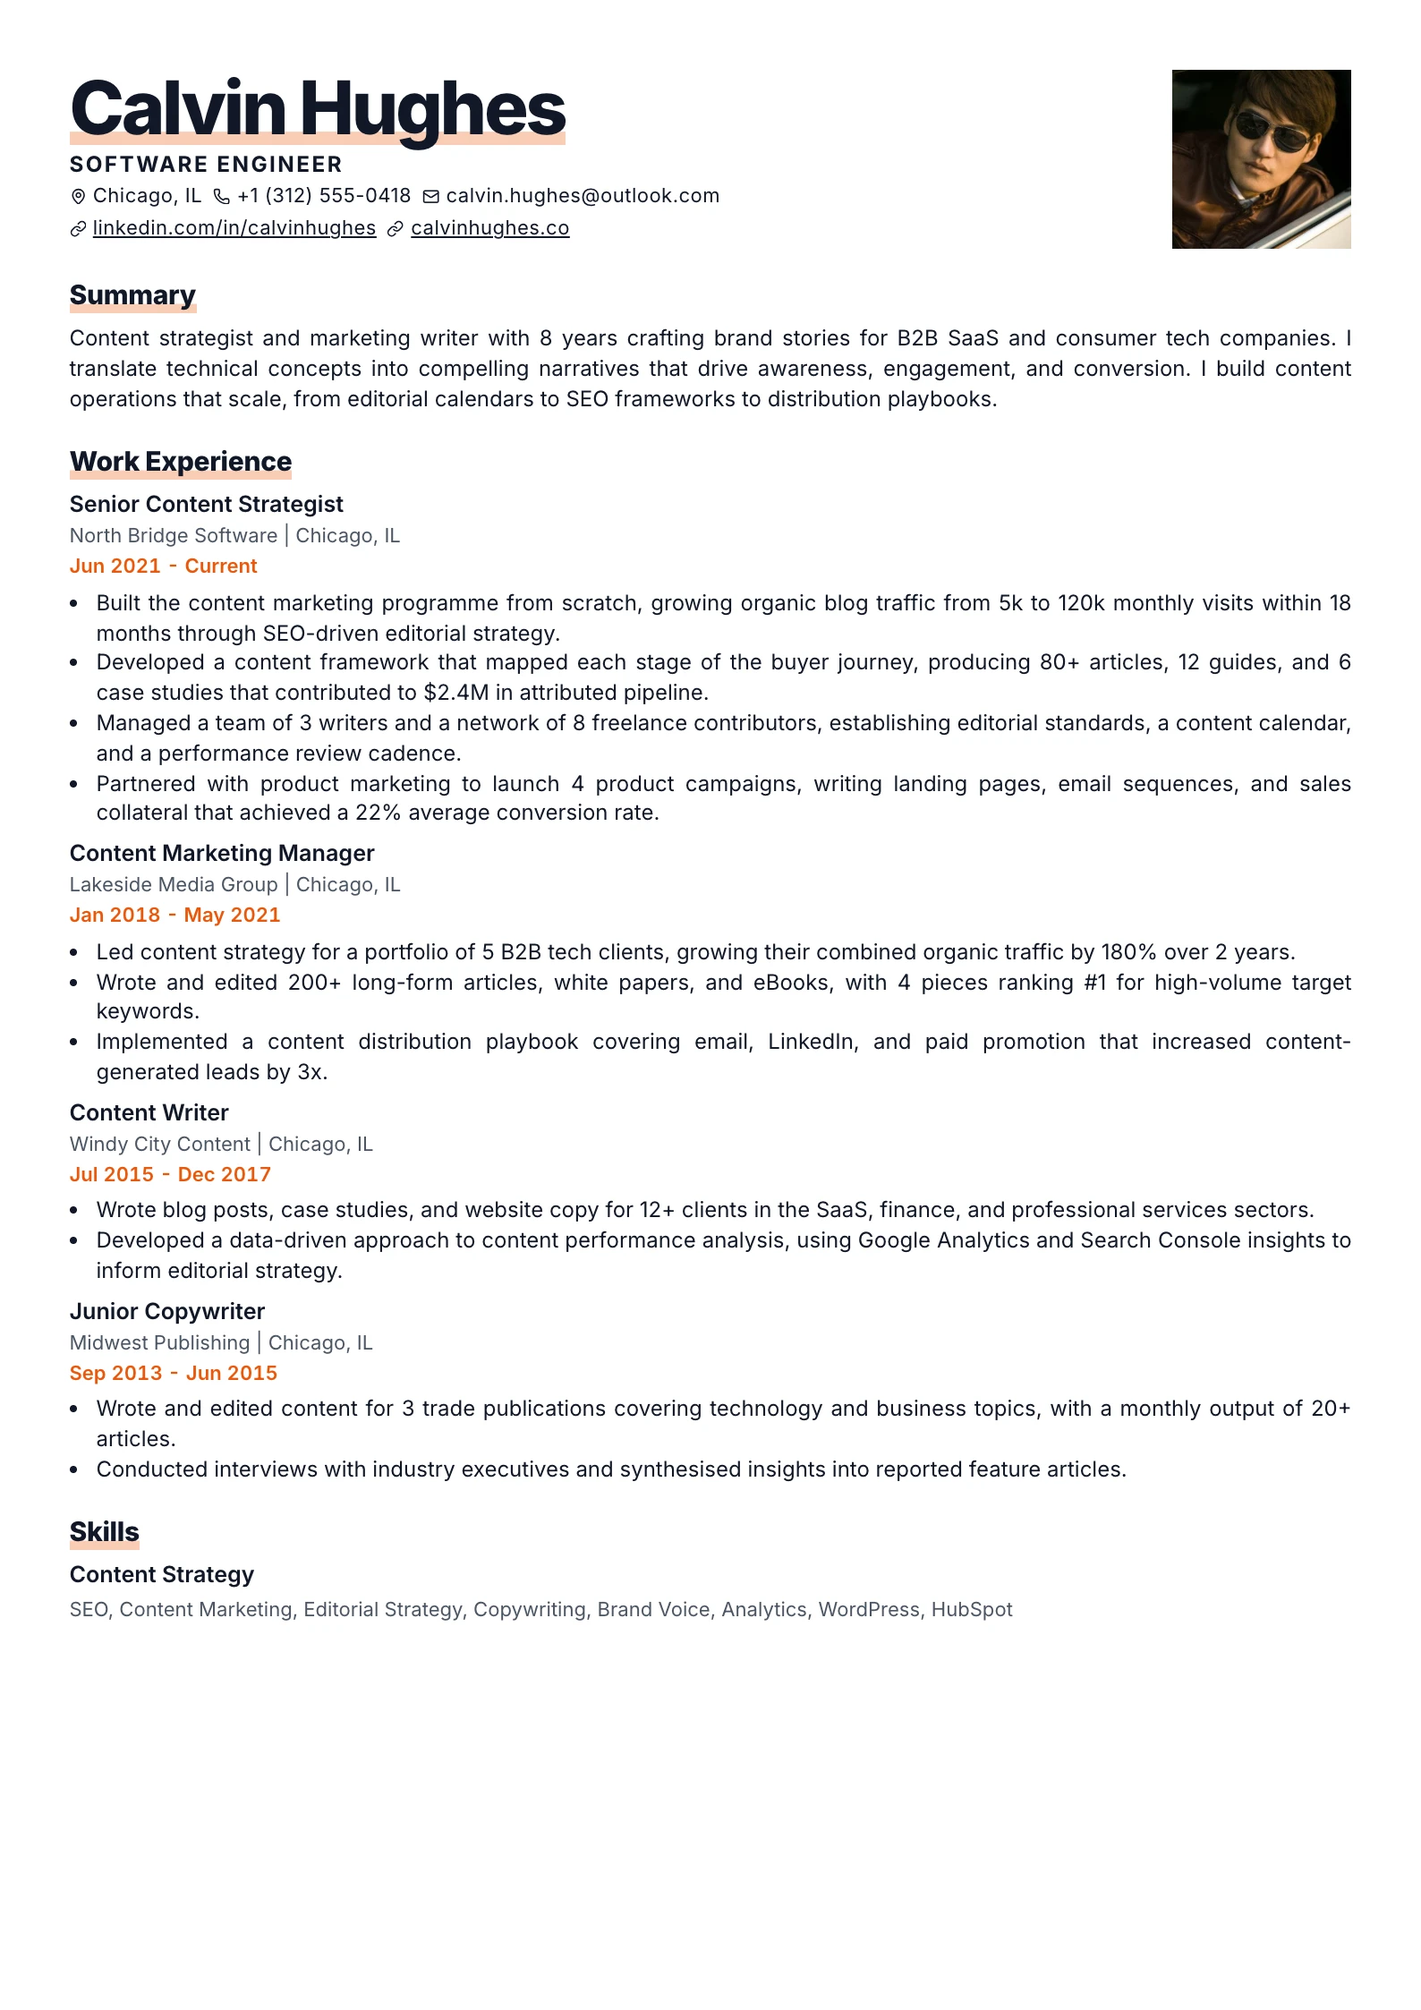
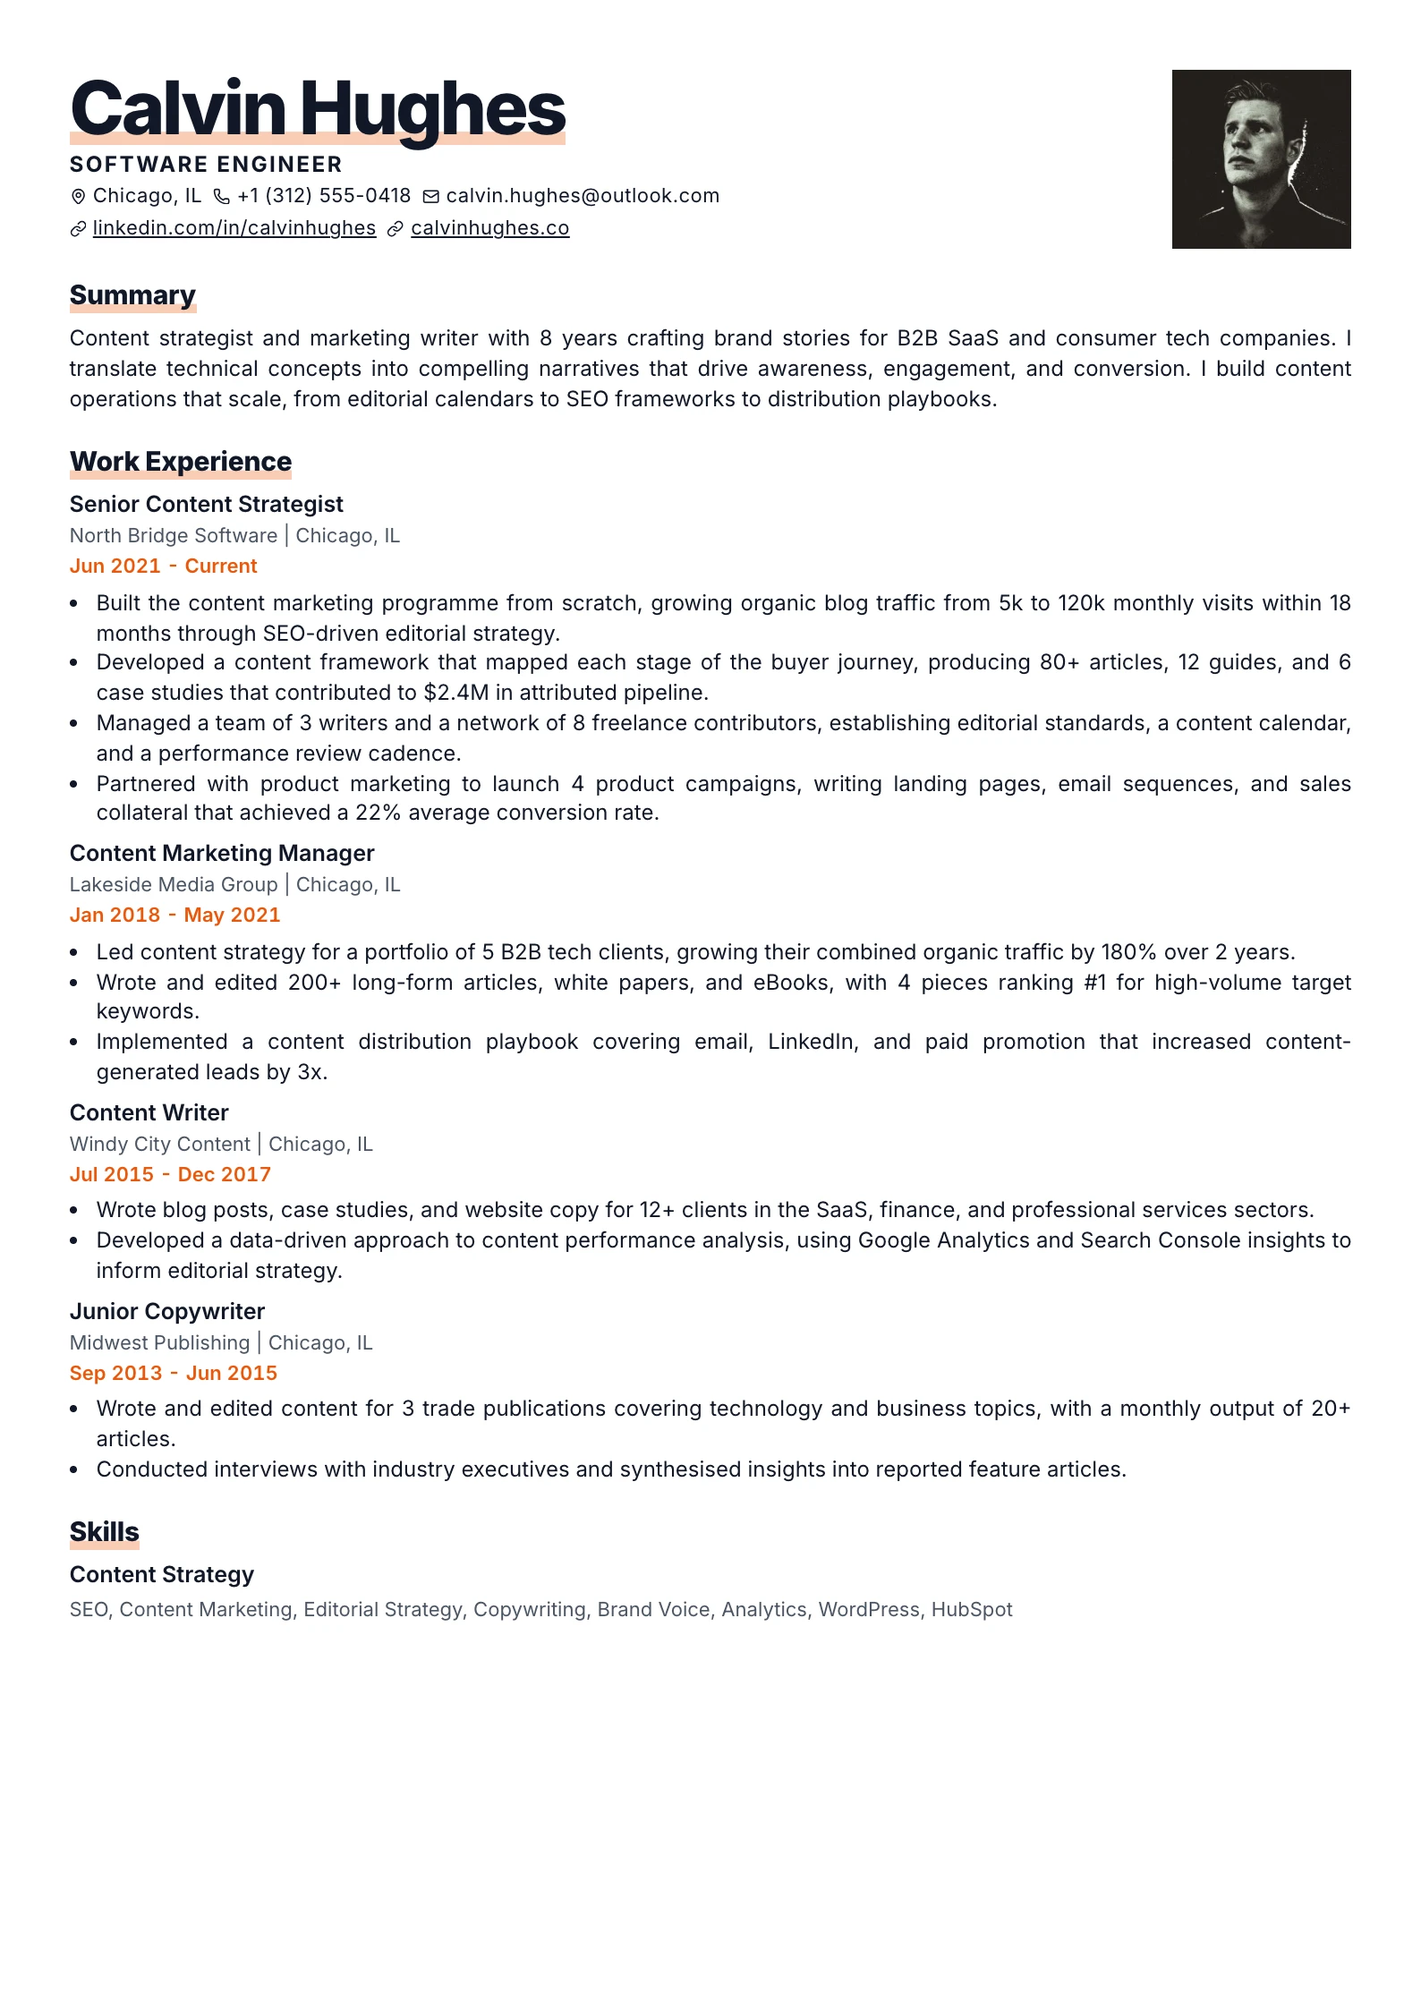
Make all sample personas male and refresh the README
- personas.ts: convert the remaining female personas to male (Anneke→Anton,
  Priya→Arjun, Sofia→Matteo, Riley→Emeka, Nina→Luka, Clara→Kojo,
  Ingrid→Ingmar) and rename the Singapore designer to Daniel Ong with a
  matching avatar, email and links
- Regenerate the affected template preview images (pnpm screenshots)
- README: list the 17 current layouts and rebuild the template gallery,
  correct the PDF session mechanism (sessionStorage, not query params), and
  bring the tech stack and project structure up to date

Changed region(s): [[0.8331, 0.0312, 0.9565, 0.1247]]

diff --git a/scripts/personas.ts b/scripts/personas.ts
@@ -1480,7 +1480,7 @@ export const PERSONAS: Persona[] = [
   {
     layoutId: "bold-type",
     presetId: "bold-citrus",
-    photo: "https://i.pravatar.cc/320?img=33",
+    photo: "https://i.pravatar.cc/320?img=57",
     fullName: "Calvin Hughes",
     location: "Chicago, IL",
     phone: "+1 (312) 555-0418",
@@ -2468,12 +2468,12 @@ export const PERSONAS: Persona[] = [
   {
     layoutId: "ledger",
     presetId: "ledger-graphite",
-    photo: "https://i.pravatar.cc/320?img=44",
-    fullName: "Anneke Visser",
+    photo: "https://i.pravatar.cc/320?img=18",
+    fullName: "Anton Visser",
     location: "Amsterdam, Netherlands",
     phone: "+31 6 2145 8890",
-    email: "anneke.visser@proton.me",
-    links: ["https://www.linkedin.com/in/annekevisser", "https://visser.works"],
+    email: "anton.visser@proton.me",
+    links: ["https://www.linkedin.com/in/antonvisser", "https://visser.works"],
     summary:
       "<p>Operations manager for high-growth logistics teams, with ten years turning improvised processes into ones that survive a tenfold increase in volume. I work close to the warehouse floor, measure before I change anything, and leave documentation behind.</p>",
     work: [
@@ -2609,14 +2609,14 @@ export const PERSONAS: Persona[] = [
   {
     layoutId: "dossier",
     presetId: "dossier-navy",
-    photo: "https://i.pravatar.cc/320?img=45",
-    fullName: "Priya Raghunathan",
+    photo: "https://i.pravatar.cc/320?img=59",
+    fullName: "Arjun Raghunathan",
     location: "Bengaluru, India",
     phone: "+91 98450 21766",
-    email: "priya.raghunathan@hey.com",
+    email: "arjun.raghunathan@hey.com",
     links: [
-      "https://www.linkedin.com/in/priyaraghunathan",
-      "https://priya.dev",
+      "https://www.linkedin.com/in/arjunraghunathan",
+      "https://arjun.dev",
     ],
     summary:
       "<p>Data scientist working on forecasting and pricing for retail. I care most about the boring half of the job — the evaluation harness, the drift monitoring, the rollback plan — because that is what decides whether a model survives contact with a business.</p>",
@@ -2822,12 +2822,12 @@ export const PERSONAS: Persona[] = [
   {
     layoutId: "crest",
     presetId: "crest-burgundy",
-    photo: "https://i.pravatar.cc/320?img=32",
-    fullName: "Sofia Marchetti",
+    photo: "https://i.pravatar.cc/320?img=55",
+    fullName: "Matteo Marchetti",
     location: "Milan, Italy",
     phone: "+39 340 118 7742",
-    email: "sofia.marchetti@proton.me",
-    links: ["https://www.linkedin.com/in/sofiamarchetti", "https://marchetti.art"],
+    email: "matteo.marchetti@proton.me",
+    links: ["https://www.linkedin.com/in/matteomarchetti", "https://marchetti.art"],
     summary:
       "<p>Curator of contemporary photography, working between institutions and artist estates. My exhibitions are built from primary research; my catalogues are written to still be useful in twenty years.</p>",
     work: [
@@ -2890,12 +2890,12 @@ export const PERSONAS: Persona[] = [
   {
     layoutId: "masthead",
     presetId: "masthead-citrus",
-    photo: "https://i.pravatar.cc/320?img=26",
-    fullName: "Riley Okafor",
+    photo: "https://i.pravatar.cc/320?img=51",
+    fullName: "Emeka Okafor",
     location: "Lagos, Nigeria",
     phone: "+234 803 552 7188",
-    email: "riley@okafor.studio",
-    links: ["https://okafor.studio", "https://www.linkedin.com/in/rileyokafor"],
+    email: "emeka@okafor.studio",
+    links: ["https://okafor.studio", "https://www.linkedin.com/in/emekaokafor"],
     summary:
       "<p>Brand designer building identities for consumer companies that have to work at billboard size and at 32 pixels. I hand over systems, not decks — type scales, motion rules, and the awkward cases nobody asked about.</p>",
     work: [
@@ -2959,12 +2959,12 @@ export const PERSONAS: Persona[] = [
   {
     layoutId: "masthead",
     presetId: "masthead-cobalt",
-    photo: "https://i.pravatar.cc/320?img=41",
-    fullName: "Nina Kovac",
+    photo: "https://i.pravatar.cc/320?img=3",
+    fullName: "Luka Kovac",
     location: "Ljubljana, Slovenia",
     phone: "+386 41 226 508",
-    email: "nina.kovac@fastmail.com",
-    links: ["https://www.linkedin.com/in/ninakovac", "https://ninakovac.dev"],
+    email: "luka.kovac@fastmail.com",
+    links: ["https://www.linkedin.com/in/lukakovac", "https://lukakovac.dev"],
     summary:
       "<p>Mobile engineer shipping iOS and Android from one codebase without pretending the two platforms are the same. I optimise for startup time, offline behaviour, and the review queue.</p>",
     work: [
@@ -3029,12 +3029,12 @@ export const PERSONAS: Persona[] = [
   {
     layoutId: "compass",
     presetId: "compass-slate",
-    photo: "https://i.pravatar.cc/320?img=36",
-    fullName: "Clara Mensah",
+    photo: "https://i.pravatar.cc/320?img=64",
+    fullName: "Kojo Mensah",
     location: "Accra, Ghana",
     phone: "+233 24 118 7740",
-    email: "clara.mensah@proton.me",
-    links: ["https://www.linkedin.com/in/claramensah", "https://mensah.health"],
+    email: "kojo.mensah@proton.me",
+    links: ["https://www.linkedin.com/in/kojomensah", "https://mensah.health"],
     summary:
       "<p>Public health programme manager running immunisation and maternal health services across three regions. I plan around what the last cold-chain failure actually taught us, not around what the protocol assumed.</p>",
     work: [
@@ -3167,12 +3167,12 @@ export const PERSONAS: Persona[] = [
   {
     layoutId: "numeral",
     presetId: "numeral-mono",
-    photo: "https://i.pravatar.cc/320?img=23",
-    fullName: "Ingrid Halvorsen",
+    photo: "https://i.pravatar.cc/320?img=8",
+    fullName: "Ingmar Halvorsen",
     location: "Oslo, Norway",
     phone: "+47 941 20 663",
-    email: "ingrid.halvorsen@posteo.net",
-    links: ["https://www.linkedin.com/in/ingridhalvorsen", "https://halvorsen.legal"],
+    email: "ingmar.halvorsen@posteo.net",
+    links: ["https://www.linkedin.com/in/ingmarhalvorsen", "https://halvorsen.legal"],
     summary:
       "<p>Commercial lawyer working on technology and data agreements. I write contracts the business side can actually read, on the theory that a term nobody understands is a term nobody follows.</p>",
     work: [
@@ -3305,12 +3305,12 @@ export const PERSONAS: Persona[] = [
   {
     layoutId: "atlas",
     presetId: "atlas-onyx",
-    photo: "https://i.pravatar.cc/320?img=47",
-    fullName: "Mei Lin Tan",
+    photo: "https://i.pravatar.cc/320?img=66",
+    fullName: "Daniel Ong",
     location: "Singapore",
     phone: "+65 8114 2260",
-    email: "meilin.tan@fastmail.com",
-    links: ["https://meilintan.studio", "https://www.linkedin.com/in/meilintan"],
+    email: "daniel.ong@fastmail.com",
+    links: ["https://danielong.studio", "https://www.linkedin.com/in/danielong"],
     summary:
       "<p>Industrial designer working on consumer hardware from sketch to tooling. I spend my time with the people who have to manufacture the thing, because that is where a nice render meets its actual cost.</p>",
     work: [
@@ -3443,12 +3443,12 @@ export const PERSONAS: Persona[] = [
   {
     layoutId: "editorial",
     presetId: "editorial-sand",
-    photo: "https://i.pravatar.cc/320?img=27",
-    fullName: "Beatrix Almeida",
+    photo: "https://i.pravatar.cc/320?img=12",
+    fullName: "Bento Almeida",
     location: "Lisbon, Portugal",
     phone: "+351 933 118 460",
-    email: "beatrix.almeida@hey.com",
-    links: ["https://almeida.press", "https://www.linkedin.com/in/beatrixalmeida"],
+    email: "bento.almeida@hey.com",
+    links: ["https://almeida.press", "https://www.linkedin.com/in/bentoalmeida"],
     summary:
       "<p>Editor and writer building long-form desks that survive contact with a budget. I commission fewer pieces than my predecessors did and finish all of them.</p>",
     work: [
@@ -3511,12 +3511,12 @@ export const PERSONAS: Persona[] = [
   {
     layoutId: "editorial",
     presetId: "editorial-sage",
-    photo: "https://i.pravatar.cc/320?img=29",
-    fullName: "Noor Haddad",
+    photo: "https://i.pravatar.cc/320?img=70",
+    fullName: "Nabil Haddad",
     location: "Amman, Jordan",
     phone: "+962 7 9114 2280",
-    email: "noor.haddad@posteo.net",
-    links: ["https://www.linkedin.com/in/noorhaddad", "https://haddad.works"],
+    email: "nabil.haddad@posteo.net",
+    links: ["https://www.linkedin.com/in/nabilhaddad", "https://haddad.works"],
     summary:
       "<p>Architect working on public buildings and adaptive reuse. Most of my job is finding what a building already does well before proposing to change anything about it.</p>",
     work: [

diff --git a/README.md b/README.md
@@ -36,7 +36,7 @@ Built with privacy as a core principle, Resummme gives you complete ownership of
 - **Import and export**: Bring in an existing resume to get started, or download/upload your resume data as portable JSON.
 
 **Templates & Style Control**
-- **12 professional templates**: Switch between twelve polished layouts (Classic, Sidebar, Modern Centered, Timeline, Academic, Inset, Banner, Split, Bold Type, Studio, Spotlight, Aurora) without retyping a thing.
+- **17 professional templates**: Switch between seventeen polished layouts (Classic, Modern Centered, Timeline, Academic, Inset, Split, Bold Type, Studio, Aurora, Ledger, Dossier, Crest, Masthead, Compass, Numeral, Atlas, Editorial) without retyping a thing.
 - **Typography**: Choose from Google Fonts and web-safe system fonts, with each option rendered in its own typeface in the font picker.
 - **Design control**: Full control over accent color, font scale, line height, section spacing, paper size (A4 / Letter), and page margins.
 
@@ -58,19 +58,15 @@ Built with privacy as a core principle, Resummme gives you complete ownership of
       <br /><sub><b>Classic</b></sub>
     </td>
     <td align="center">
-      <img src="public/templates/sidebar-slate.webp" alt="Sidebar" width="180" />
-      <br /><sub><b>Sidebar</b></sub>
-    </td>
-    <td align="center">
       <img src="public/templates/centered-ocean.webp" alt="Modern Centered" width="180" />
       <br /><sub><b>Modern Centered</b></sub>
     </td>
-  </tr>
-  <tr>
     <td align="center">
       <img src="public/templates/timeline-indigo.webp" alt="Timeline" width="180" />
       <br /><sub><b>Timeline</b></sub>
     </td>
+  </tr>
+  <tr>
     <td align="center">
       <img src="public/templates/academic-oxford.webp" alt="Academic" width="180" />
       <br /><sub><b>Academic</b></sub>
@@ -79,33 +75,61 @@ Built with privacy as a core principle, Resummme gives you complete ownership of
       <img src="public/templates/inset-steel.webp" alt="Inset" width="180" />
       <br /><sub><b>Inset</b></sub>
     </td>
-  </tr>
-  <tr>
-    <td align="center">
-      <img src="public/templates/banner-royal.webp" alt="Banner" width="180" />
-      <br /><sub><b>Banner</b></sub>
-    </td>
     <td align="center">
       <img src="public/templates/split-midnight.webp" alt="Split" width="180" />
       <br /><sub><b>Split</b></sub>
     </td>
+  </tr>
+  <tr>
     <td align="center">
       <img src="public/templates/bold-citrus.webp" alt="Bold Type" width="180" />
       <br /><sub><b>Bold Type</b></sub>
     </td>
-  </tr>
-  <tr>
     <td align="center">
       <img src="public/templates/studio-violet.webp" alt="Studio" width="180" />
       <br /><sub><b>Studio</b></sub>
     </td>
     <td align="center">
-      <img src="public/templates/spotlight-dusk.webp" alt="Spotlight" width="180" />
-      <br /><sub><b>Spotlight</b></sub>
-    </td>
-    <td align="center">
       <img src="public/templates/aurora-haze.webp" alt="Aurora" width="180" />
       <br /><sub><b>Aurora</b></sub>
+    </td>
+  </tr>
+  <tr>
+    <td align="center">
+      <img src="public/templates/ledger-graphite.webp" alt="Ledger" width="180" />
+      <br /><sub><b>Ledger</b></sub>
+    </td>
+    <td align="center">
+      <img src="public/templates/dossier-navy.webp" alt="Dossier" width="180" />
+      <br /><sub><b>Dossier</b></sub>
+    </td>
+    <td align="center">
+      <img src="public/templates/crest-charcoal.webp" alt="Crest" width="180" />
+      <br /><sub><b>Crest</b></sub>
+    </td>
+  </tr>
+  <tr>
+    <td align="center">
+      <img src="public/templates/masthead-citrus.webp" alt="Masthead" width="180" />
+      <br /><sub><b>Masthead</b></sub>
+    </td>
+    <td align="center">
+      <img src="public/templates/compass-slate.webp" alt="Compass" width="180" />
+      <br /><sub><b>Compass</b></sub>
+    </td>
+    <td align="center">
+      <img src="public/templates/numeral-mono.webp" alt="Numeral" width="180" />
+      <br /><sub><b>Numeral</b></sub>
+    </td>
+  </tr>
+  <tr>
+    <td align="center">
+      <img src="public/templates/atlas-onyx.webp" alt="Atlas" width="180" />
+      <br /><sub><b>Atlas</b></sub>
+    </td>
+    <td align="center">
+      <img src="public/templates/editorial-sand.webp" alt="Editorial" width="180" />
+      <br /><sub><b>Editorial</b></sub>
     </td>
   </tr>
 </table>
@@ -142,7 +166,10 @@ Open [http://localhost:3000](http://localhost:3000) to see the application.
 | UI Primitives | React 19, Base UI |
 | Rich Text | TipTap |
 | State Management | Zustand |
+| Drag & Drop | dnd-kit |
+| Motion | motion |
 | PDF Export | Puppeteer (local) / Cloudflare Browser Run (prod) |
+| PDF Text Extraction | pdf-parse |
 | AI | Google Gemini API (gemini-2.0-flash) |
 | Forms | React Hook Form + Zod |
 | Testing | Vitest + Testing Library |
@@ -156,7 +183,7 @@ pnpm start        # Start the production server
 pnpm lint         # Run ESLint
 pnpm test         # Run Vitest (single pass)
 pnpm test:watch   # Run Vitest in watch mode
-pnpm typecheck    # Type-check with tsc
+pnpm typecheck    # Generate Next.js route types, then type-check with tsc
 pnpm screenshots  # Regenerate template preview images in public/templates
 ```
 
@@ -227,12 +254,16 @@ src/
     editor/
       desktop/                 # Split-panel layout: sidebar + zoomable canvas preview
       mobile/                  # Full-screen guided-forms layout
-      panels/                  # Style tab, Insights tab, extract-CV dialog
+      panels/                  # Style tab, Design panel, template gallery, Insights tab, extract-CV dialog
       sections/                # Section list, drag-to-reorder, per-section forms
       shared/, top-bar/        # Header (undo/redo, save indicator, Download PDF)
     forms/                     # react-hook-form field bindings, rich-text, schemas
     preview/
-      layouts/                 # classic | sidebar | modern-centered | timeline | academic | inset | banner | split | bold-type | studio | spotlight | aurora
+      layouts/                 # classic | modern-centered | timeline | academic | inset | split | bold-type | studio | aurora | ledger | dossier | crest | masthead | compass | numeral | atlas | editorial
+      engine.ts                # Layout descriptors + render pipeline
+      paginate-document.ts     # Multi-page break pass
+      resume-document.tsx      # The paper surface
+      resume-pdf-page.tsx      # The page Puppeteer captures
       components/, descriptors/, kit/, helpers/
     server/                    # Server-side PDF export & Gemini helpers
     state/                     # Zustand store
@@ -242,7 +273,7 @@ src/
 
 The homepage at / is just marketing; the editor itself lives at /editor. On desktop it's a split layout: sidebar form editor on the left, a live zoomable preview of the actual paper on the right, plus a Style/Insights panel. On mobile it's full-screen guided forms. There's no save button, since every keystroke autosaves.
 
-Downloading a PDF opens /resume-pdf, a plain page that Puppeteer (or Cloudflare Browser Run in production) loads and captures — the draft and presentation settings are passed in as base64-encoded query params, and the export API streams the resulting PDF back.
+Downloading a PDF opens /resume-pdf, a plain page that Puppeteer (or Cloudflare Browser Run in production) loads and captures. Before the page loads, the export API drops the draft into `sessionStorage` under `resume-editor:pdf-draft`, so the rendering page picks it up from there — no draft data ever touches a query string.
 
 The AI features are thin wrappers around Gemini: importing a PDF extracts its text and asks Gemini to map it into a structured draft, "Improve with AI" sends the current field's HTML plus instructions and gets sanitized HTML back, and the ATS job match endpoint asks Gemini for keywords from a job description and matches them against the current draft on the client.
 
